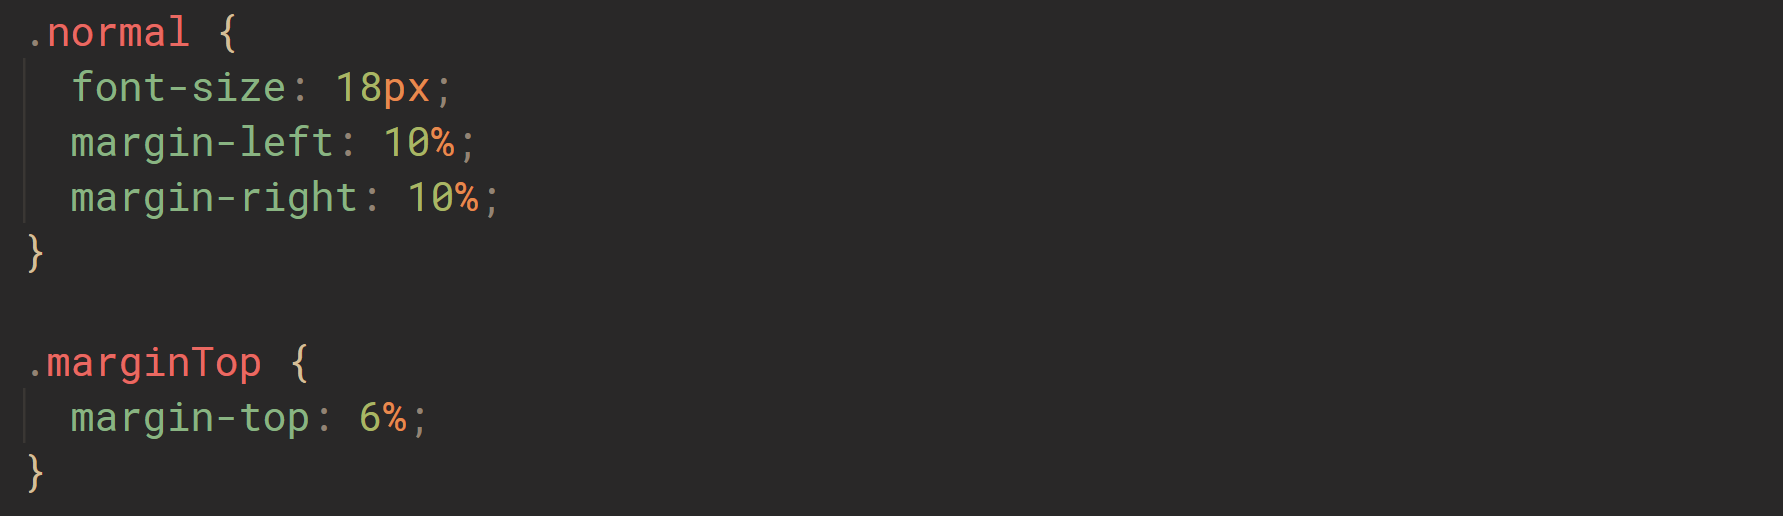
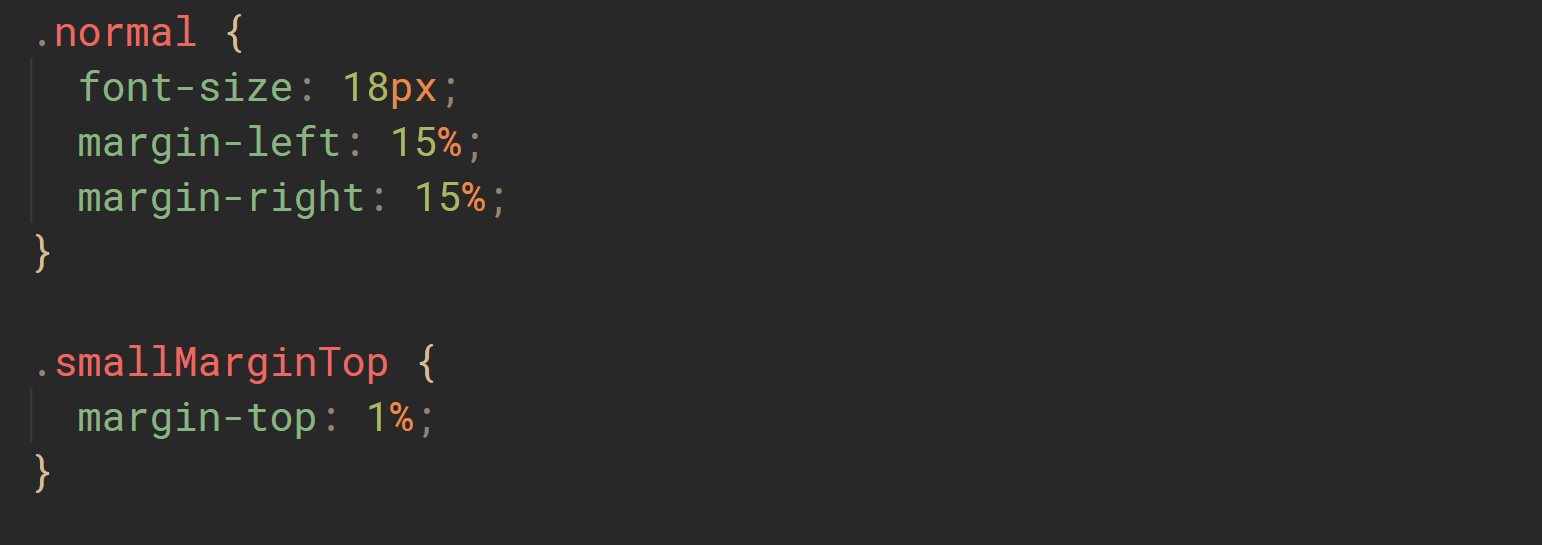
Added examples 3 and 4 and updated examples 1 and 2

diff --git a/pub/toast.js b/pub/toast.js
@@ -23,22 +23,25 @@
       this.animationName = null;
       this.animationDuration = null;
       this.animationIterations = null;
+      this.animationDelay = null;
       this.soundPath = null; // to play sound effect when popup appears
       this.parentElement = null; // if null, popup will be appended to event target's parent
       this.collateral = null; // an array of other elements to move when the popup appears
       this.collateralAnimationName = null; // how to animate the other affected elements
       this.collateralAnimationDuration = null;
       this.collateralAnimationIterations = null;
+      this.collateralAnimationDelay = null;
     }
 
     setCollateral(arrayOfCollateralElements) {
       this.collateral = arrayOfCollateralElements;
     }
 
-    setCollateralAnimation(name, duration, iterations) {
+    setCollateralAnimation(name, duration, iterations, delay) {
       this.collateralAnimationName = name;
       this.collateralAnimationDuration = duration;
       this.collateralAnimationIterations = iterations;
+      this.collateralAnimationDelay = delay;
     }
 
     animateCollateral() {
@@ -48,12 +51,8 @@
         currElement.style.animationName = this.collateralAnimationName;
         currElement.style.animationDuration = this.collateralAnimationDuration;
         currElement.style.animationIterations = this.collateralAnimationIterations;
+        currElement.style.animationDelay = this.collateralAnimationDelay;
         currElement.style.animationFillMode = "forwards";
-        console.log(
-          this.collateralAnimationName,
-          this.collateralAnimationDuration,
-          this.collateralAnimationIterations
-        );
       }
     }
 
@@ -206,6 +205,7 @@
         } else if (self.closeTrigger === "time") {
           setTimeout(function () {
             popup.remove();
+            callback();
           }, self.ms);
         }
 
@@ -273,11 +273,12 @@
       };
     }
 
-    addAnimation(name, duration, iterations) {
+    addAnimation(name, duration, iterations, delay) {
       const self = this;
       self.animationName = name;
       self.animationDuration = duration;
       self.animationIterations = iterations;
+      self.animationDelay = delay;
     }
 
     animate(popup) {
@@ -285,6 +286,7 @@
       popup.style.animationName = self.animationName;
       popup.style.animationDuration = self.animationDuration;
       popup.style.animationIterations = self.animationIterations;
+      popup.style.animationDelay = self.animationDelay;
       popup.style.animationFillMode = "forwards";
     }
 

diff --git a/pub/example1.html b/pub/example1.html
@@ -4,7 +4,18 @@
     <meta charset="utf-8" />
     <title>Toast.js</title>
 
-    <meta name="viewport" content="width=device-width, initial-scale=1" />
+    <meta
+      name="viewport"
+      content="width=device-width, initial-scale=1, shrink-to-fit=no"
+    />
+
+    <!-- Bootstrap CSS -->
+    <link
+      rel="stylesheet"
+      href="https://stackpath.bootstrapcdn.com/bootstrap/4.5.2/css/bootstrap.min.css"
+      integrity="sha384-JcKb8q3iqJ61gNV9KGb8thSsNjpSL0n8PARn9HuZOnIxN0hoP+VmmDGMN5t9UJ0Z"
+      crossorigin="anonymous"
+    />
 
     <link rel="stylesheet" type="text/css" href="styles.css" />
 
@@ -18,8 +29,8 @@
       The following is an excerpt from a Wikipedia
       <a href="https://en.wikipedia.org/wiki/Antagonistic_pleiotropy_hypothesis"
         >article</a
-      >. Mouse over the underlined text to see a popup containing an excerpt
-      from the relevant article.
+      >. Mouse over the blue text to see a popup containing an excerpt from the
+      relevant article.
     </div>
     <div class="normal smallMarginTop">
       The antagonistic pleiotropy hypothesis was first proposed by
@@ -60,5 +71,22 @@
     <img src="./resources/mouseoverDefHTML.png" class="image" />
     <div class="subtitle smallMarginTop">CSS</div>
     <img src="./resources/mouseoverDefCSS.png" class="image" />
+
+    <!-- Reqs for BootStrap -->
+    <script
+      src="https://code.jquery.com/jquery-3.5.1.slim.min.js"
+      integrity="sha384-DfXdz2htPH0lsSSs5nCTpuj/zy4C+OGpamoFVy38MVBnE+IbbVYUew+OrCXaRkfj"
+      crossorigin="anonymous"
+    ></script>
+    <script
+      src="https://cdn.jsdelivr.net/npm/popper.js@1.16.1/dist/umd/popper.min.js"
+      integrity="sha384-9/reFTGAW83EW2RDu2S0VKaIzap3H66lZH81PoYlFhbGU+6BZp6G7niu735Sk7lN"
+      crossorigin="anonymous"
+    ></script>
+    <script
+      src="https://stackpath.bootstrapcdn.com/bootstrap/4.5.2/js/bootstrap.min.js"
+      integrity="sha384-B4gt1jrGC7Jh4AgTPSdUtOBvfO8shuf57BaghqFfPlYxofvL8/KUEfYiJOMMV+rV"
+      crossorigin="anonymous"
+    ></script>
   </body>
 </html>

diff --git a/pub/example3.html b/pub/example3.html
@@ -17,21 +17,21 @@
     <link rel="stylesheet" type="text/css" href="styles.css" />
 
     <script defer type="text/javascript" src="toast.js"></script>
-    <script defer type="text/javascript" src="example2.js"></script>
+    <script defer type="text/javascript" src="example3.js"></script>
   </head>
   <body class="background"></body>
-  <div class="title1 marginTop">Example 2</div>
-  <div class="title2 smallMarginTop">Alert for Important Actions</div>
+  <div class="title1 marginTop">Example 3</div>
+  <div class="title2 smallMarginTop">Disappearing Popup</div>
     <div class="subtitle smallMarginTop">
-      <button id="enrolButton">Click to enroll in CSC309</button>
+      <button id="cartButton">Click to add item to cart</button>
     </div>
     <div class="subtitle smallMarginTop">Code</div>
     <div class="subtitle smallMarginTop">JS (for one popup)</div>
-    <img src="./resources/importantJS.png" class="image" />
+    <img src="./resources/fadeOutJS.png" class="image" />
     <div class="subtitle smallMarginTop">HTML</div>
-    <img src="./resources/importantHTML.png" class="image" />
+    <img src="./resources/fadeOutHTML.png" class="image" />
     <div class="subtitle smallMarginTop">CSS</div>
-    <img src="./resources/importantCSS.png" class="image" />
+    <img src="./resources/fadeOutCSS.png" class="image" />
 
     <!-- Reqs for BootStrap -->
     <script

diff --git a/pub/example4.html b/pub/example4.html
@@ -17,21 +17,21 @@
     <link rel="stylesheet" type="text/css" href="styles.css" />
 
     <script defer type="text/javascript" src="toast.js"></script>
-    <script defer type="text/javascript" src="example2.js"></script>
+    <script defer type="text/javascript" src="example4.js"></script>
   </head>
   <body class="background"></body>
-  <div class="title1 marginTop">Example 2</div>
-  <div class="title2 smallMarginTop">Alert for Important Actions</div>
+  <div class="title1 marginTop">Example 4</div>
+  <div class="title2 smallMarginTop">Popup with Sound Effect</div>
     <div class="subtitle smallMarginTop">
-      <button id="enrolButton">Click to enroll in CSC309</button>
+      <button id="sendButton">Click to send message</button>
     </div>
     <div class="subtitle smallMarginTop">Code</div>
     <div class="subtitle smallMarginTop">JS (for one popup)</div>
-    <img src="./resources/importantJS.png" class="image" />
+    <img src="./resources/soundJS.png" class="image" />
     <div class="subtitle smallMarginTop">HTML</div>
-    <img src="./resources/importantHTML.png" class="image" />
+    <img src="./resources/soundHTML.png" class="image" />
     <div class="subtitle smallMarginTop">CSS</div>
-    <img src="./resources/importantCSS.png" class="image" />
+    <img src="./resources/soundCSS.png" class="image" />
 
     <!-- Reqs for BootStrap -->
     <script

diff --git a/pub/styles.css b/pub/styles.css
@@ -38,7 +38,7 @@ div {
   z-index: 2;
   background-color: #424949;
   top: 0px;
-  height: 150%;
+  height: 200%;
   width: 100%;
 }
 
@@ -94,6 +94,15 @@ div {
   }
 }
 
+@keyframes fadeOut {
+  from {
+    opacity: 1;
+  }
+  to {
+    opacity: 0;
+  }
+}
+
 /* STYLES FOR EXAMPLES */
 .title1 {
   font-size: 28px;
@@ -124,12 +133,12 @@ div {
   margin-right: 15%;
 }
 
-.marginTop {
-  margin-top: 6%;
-}
-
 .smallMarginTop {
   margin-top: 1%;
+}
+
+.marginTop {
+  margin-top: 6%;
 }
 
 .example1 {

diff --git a/pub/example4.js b/pub/example4.js
@@ -1,0 +1,13 @@
+// select elements in DOM
+const base = document.querySelector("#base");
+const sendButton = document.querySelector("#sendButton");
+
+const sendPopup = new Popup(
+  base,
+  "box",
+  "Your message has been sent!",
+  "click"
+);
+sendPopup.addSound("./resources/botw_get.mp3");
+sendPopup.addAnimation("fadeOut", "2s", "1", "0.5s");
+sendPopup.addOpenTrigger(sendButton);

diff --git a/pub/example3.js b/pub/example3.js
@@ -1,0 +1,12 @@
+// select elements in DOM
+const base = document.querySelector("#base");
+const cartButton = document.querySelector("#cartButton");
+
+const cartPopup = new Popup(
+  base,
+  "box",
+  "This item has been added to your cart.",
+  "click"
+);
+cartPopup.addAnimation("fadeOut", "2s", "1", "0.5s");
+cartPopup.addOpenTrigger(cartButton);
